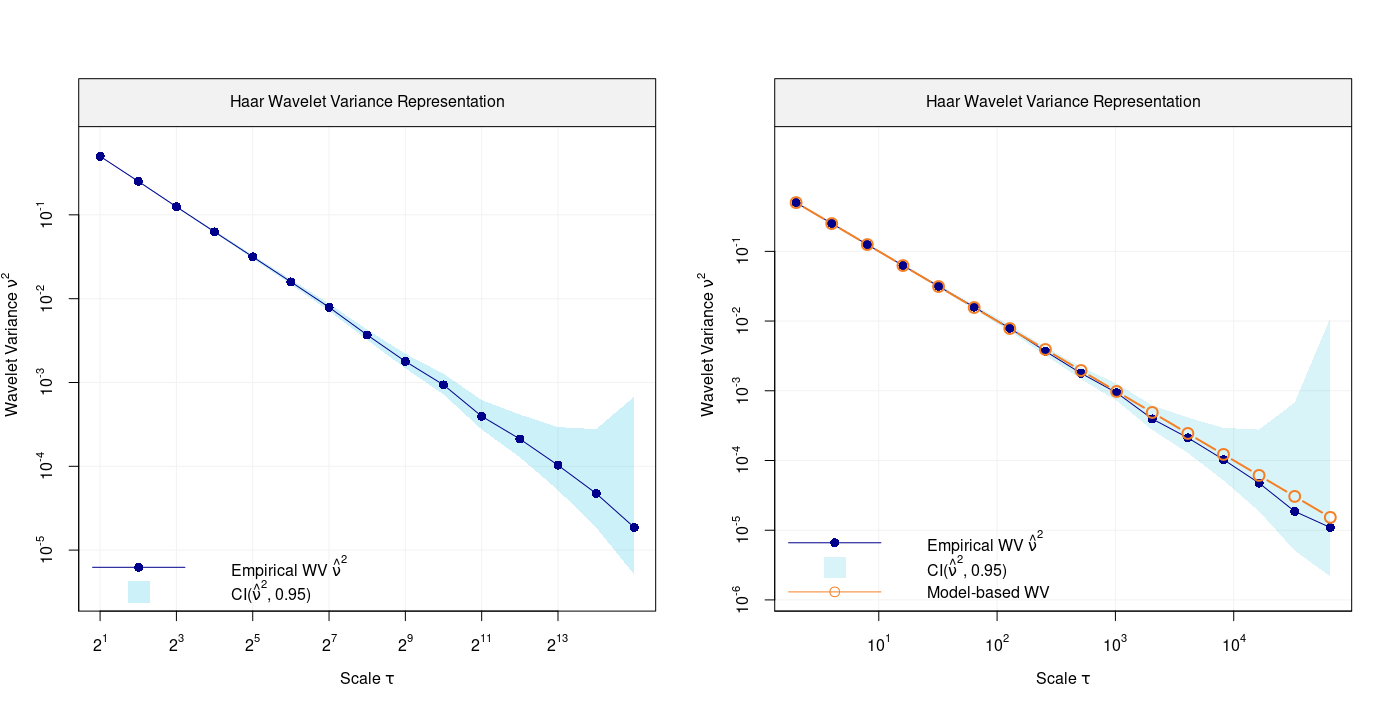
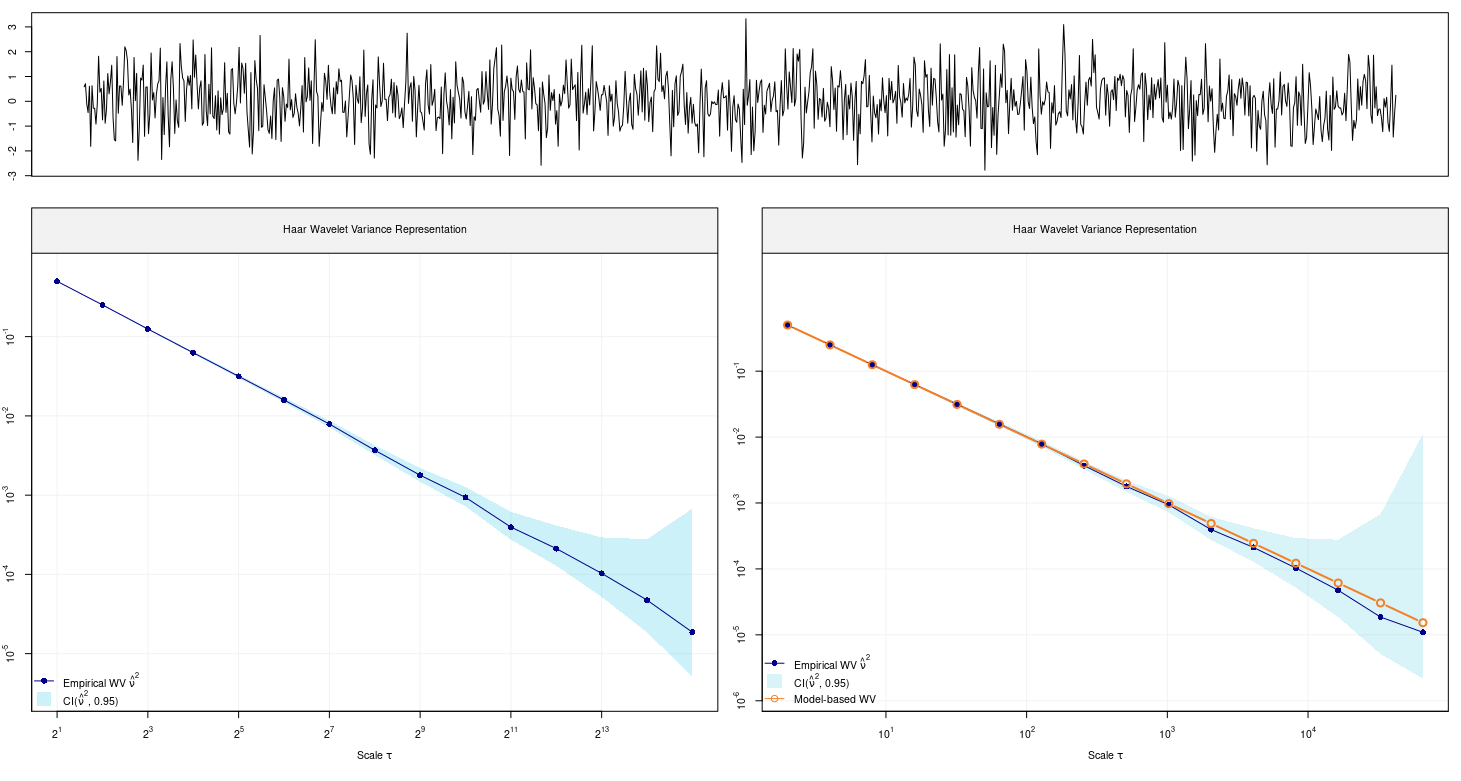
better graph p 38

diff --git a/slides/slides_r_lunch_rcpp.html b/slides/slides_r_lunch_rcpp.html
@@ -316,7 +316,7 @@ microbenchmark::microbenchmark(f1)
 ```
 ## Unit: nanoseconds
 ##  expr min lq  mean median uq  max neval
-##    f1  34 36 51.46     37 38 1361   100
+##    f1  34 35 50.62     36 37 1411   100
 ```
 
 These results summarize how long each query took: the minimum (`min`), lower and upper quartiles (`lq` and `uq`, respectively) and the mean, median and maximum, for each of the number of evaluations (`neval`, with the default value of 100 used in this case). `cld` reports the relative rank of each row in the form of 'compact letter display'.
@@ -874,7 +874,7 @@ See (Guerrier, Skaloud, Stebler, et al., 2013) for a comprehensive discussion on
 ---
 # Case study: The Haar Wavelet Variance 
 &lt;div align = "center"&gt;
-&lt;img src="assets/wvar_fit_img.png" width="90%"/&gt;
+&lt;img src="assets/wvar_fit_img.png" width="85%"/&gt;
 &lt;/div&gt;
 
 
@@ -1125,16 +1125,17 @@ To go further, check the post [Parallelization in rcpp via OpenMP](https://wbnic
 # References
 Chambers, J. M. (2017). _Extending R_. CRC Press.
 
-Guerrier, S., J. Skaloud, Y. Stebler, et al. (2013). "Wavelet-variance-based
-estimation for composite stochastic processes". In: _Journal of the American
-Statistical Association_ 108.503, pp. 1021-1030.
+Guerrier, S., J. Skaloud, Y. Stebler, et al. (2013).
+"Wavelet-variance-based estimation for composite stochastic
+processes". In: _Journal of the American Statistical Association_
+108.503, pp. 1021-1030.
 
-Percival, D. P. (1995). "On estimation of the wavelet variance". In:
-_Biometrika_ 82.3, pp. 619-631.
+Percival, D. P. (1995). "On estimation of the wavelet variance".
+In: _Biometrika_ 82.3, pp. 619-631.
 
-Schimmack, M., S. Nguyen, and P. Mercorelli (2016). "Anatomy of haar wavelet
-filter and its implementation for signal processing". In: _IFAC-PapersOnLine_
-49.6, pp. 99-104.
+Schimmack, M., S. Nguyen, and P. Mercorelli (2016). "Anatomy of
+haar wavelet filter and its implementation for signal processing".
+In: _IFAC-PapersOnLine_ 49.6, pp. 99-104.
 
 
 ---
